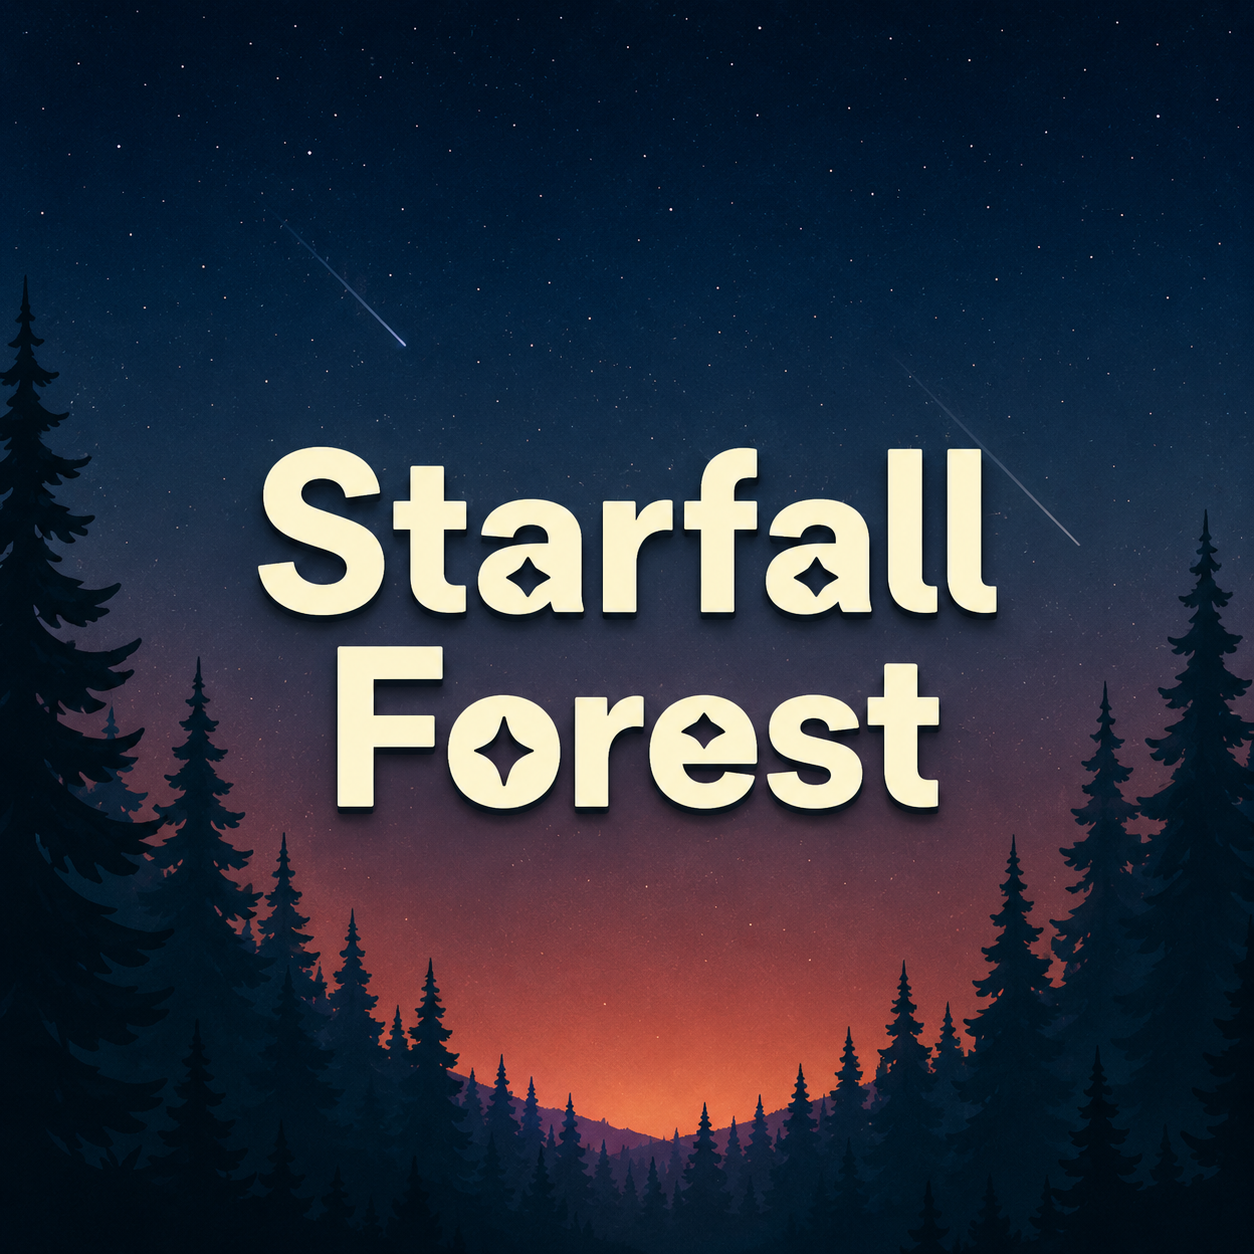
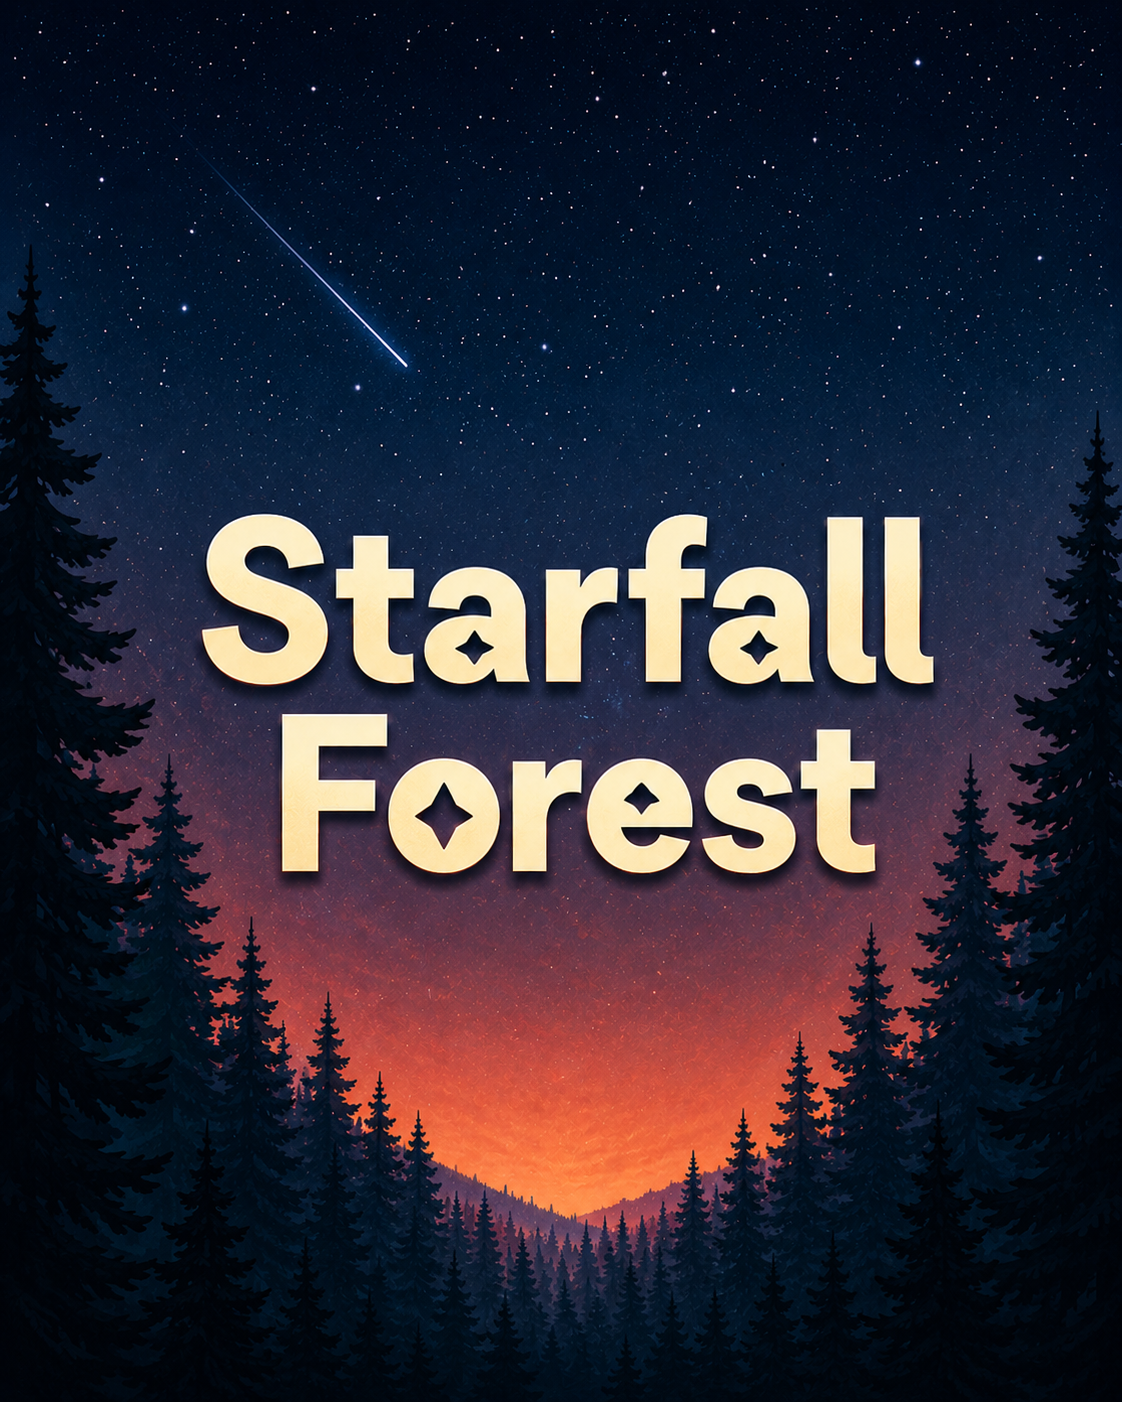
2606140912

diff --git a/src/pages/SuperAdminPage.jsx b/src/pages/SuperAdminPage.jsx
@@ -28,7 +28,8 @@ import {
 } from '../lib/utils';
 import Modal from '../components/Modal';
 import GuildBadge, { buildBadgeStyles } from '../components/GuildBadge';
-import { validateEnglishName } from '../lib/guildPage';
+import GuildPageEditor from '../components/GuildPageEditor';
+import { validateEnglishName, normalizePage } from '../lib/guildPage';
 
 // ── Login / bootstrap ───────────────────────────────────────────────
 
@@ -630,6 +631,7 @@ function GuildEditModal({ guild, onClose, nextOrder = 0 }) {
   const [shortName, setShortName] = useState(guild.shortName || '');
   const [englishName, setEnglishName] = useState(guild.englishName || '');
   const [color, setColor] = useState(guild.color || '#7dd3fc');
+  const [page, setPage] = useState(normalizePage(guild.page, guild.color));
   const [logoPath, setLogoPath] = useState(guild.logoPath || '');
   const [showInFilter, setShowInFilter] = useState(guild.showInFilter !== false);
 
@@ -690,6 +692,7 @@ function GuildEditModal({ guild, onClose, nextOrder = 0 }) {
         logoPath: logoPath.trim(),
         isNone: !!guild.isNone,
         showInFilter,
+        page,
         ...(isNew ? { order: nextOrder } : {}),
         badge: {
           shape: badgeShape, bgType: badgeBgType,
@@ -716,7 +719,7 @@ function GuildEditModal({ guild, onClose, nextOrder = 0 }) {
     <Modal open onClose={() => onClose(false)} title={isNew ? '길드 추가' : `길드 수정 · ${guild.name}`}>
       {/* ── Tab selector ── */}
       <div className="flex gap-1 p-1 rounded-xl bg-base-850 border border-base-700 mb-4">
-        {[['info', '기본 정보'], ['badge', '뱃지 수정']].map(([key, label]) => (
+        {[['info', '기본 정보'], ['badge', '뱃지 수정'], ['page', '소개글']].map(([key, label]) => (
           <button
             key={key}
             type="button"
@@ -972,6 +975,16 @@ function GuildEditModal({ guild, onClose, nextOrder = 0 }) {
             ))}
           </BadgeSection>
         </div>
+      )}
+
+      {/* ── 소개글 Tab ── */}
+      {activeTab === 'page' && (
+        <GuildPageEditor
+          value={page}
+          onChange={setPage}
+          guildColor={color}
+          guildName={name || guild.name || '길드'}
+        />
       )}
 
       {/* ── Footer ── */}